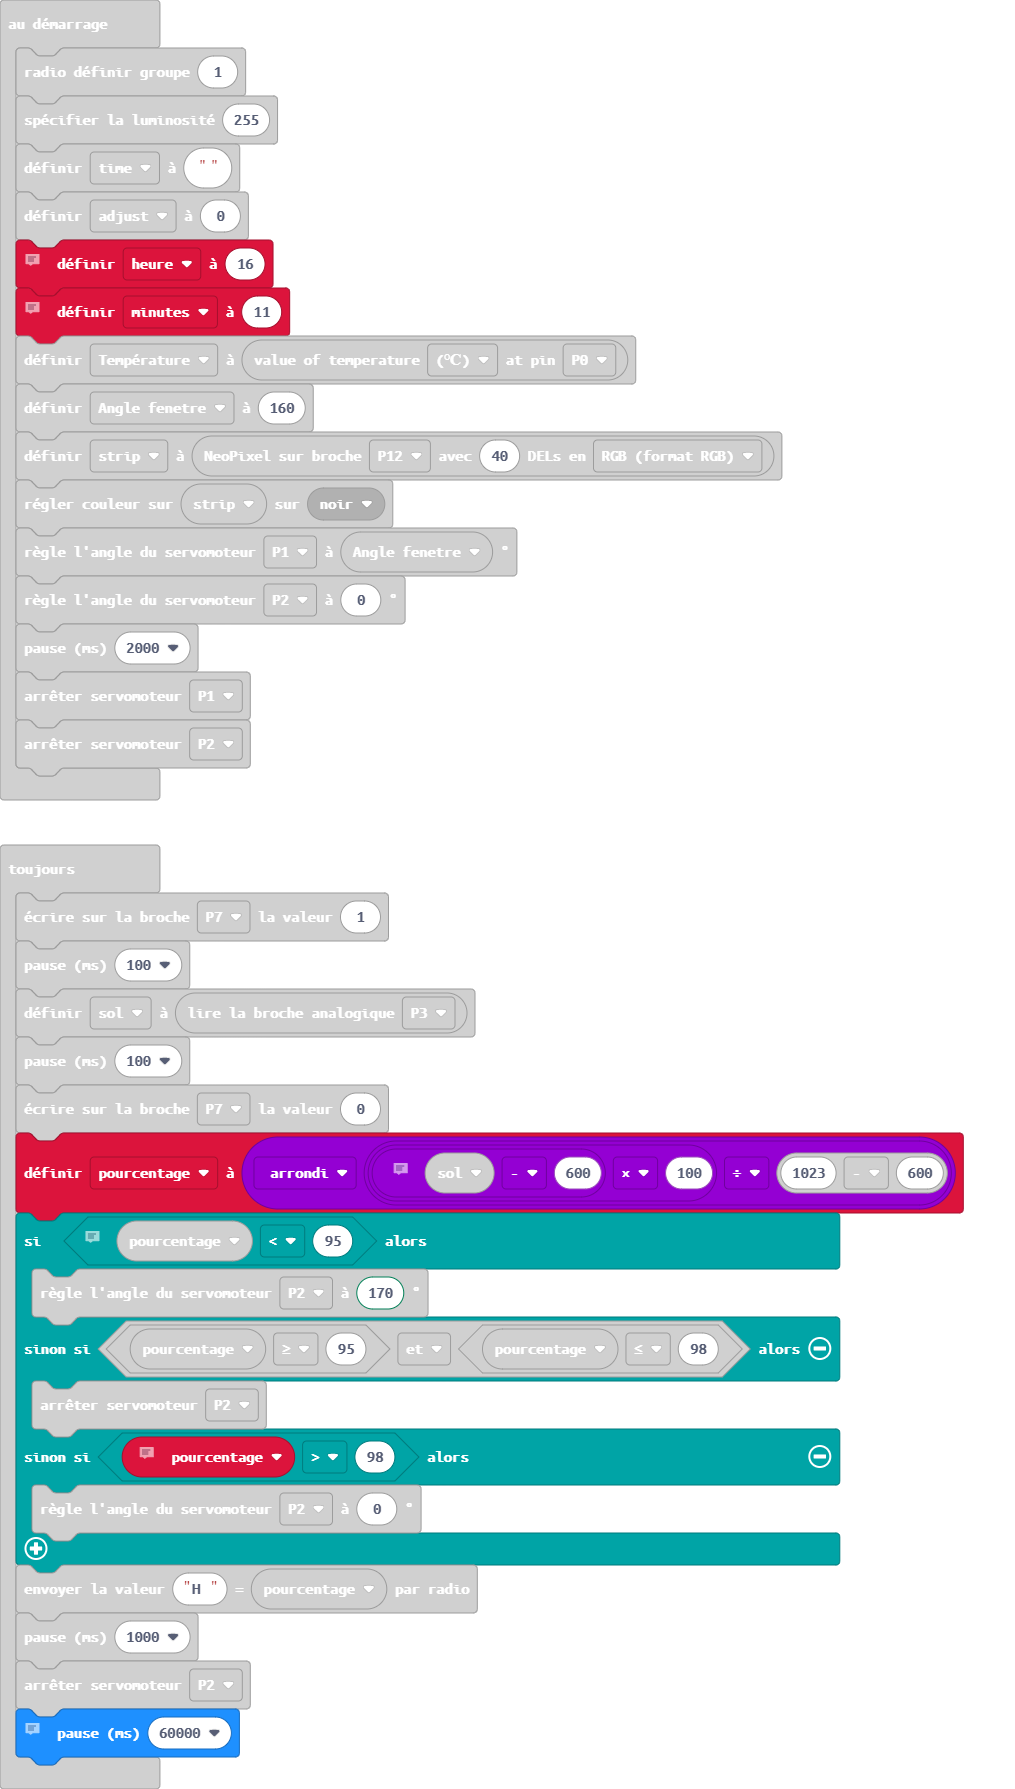
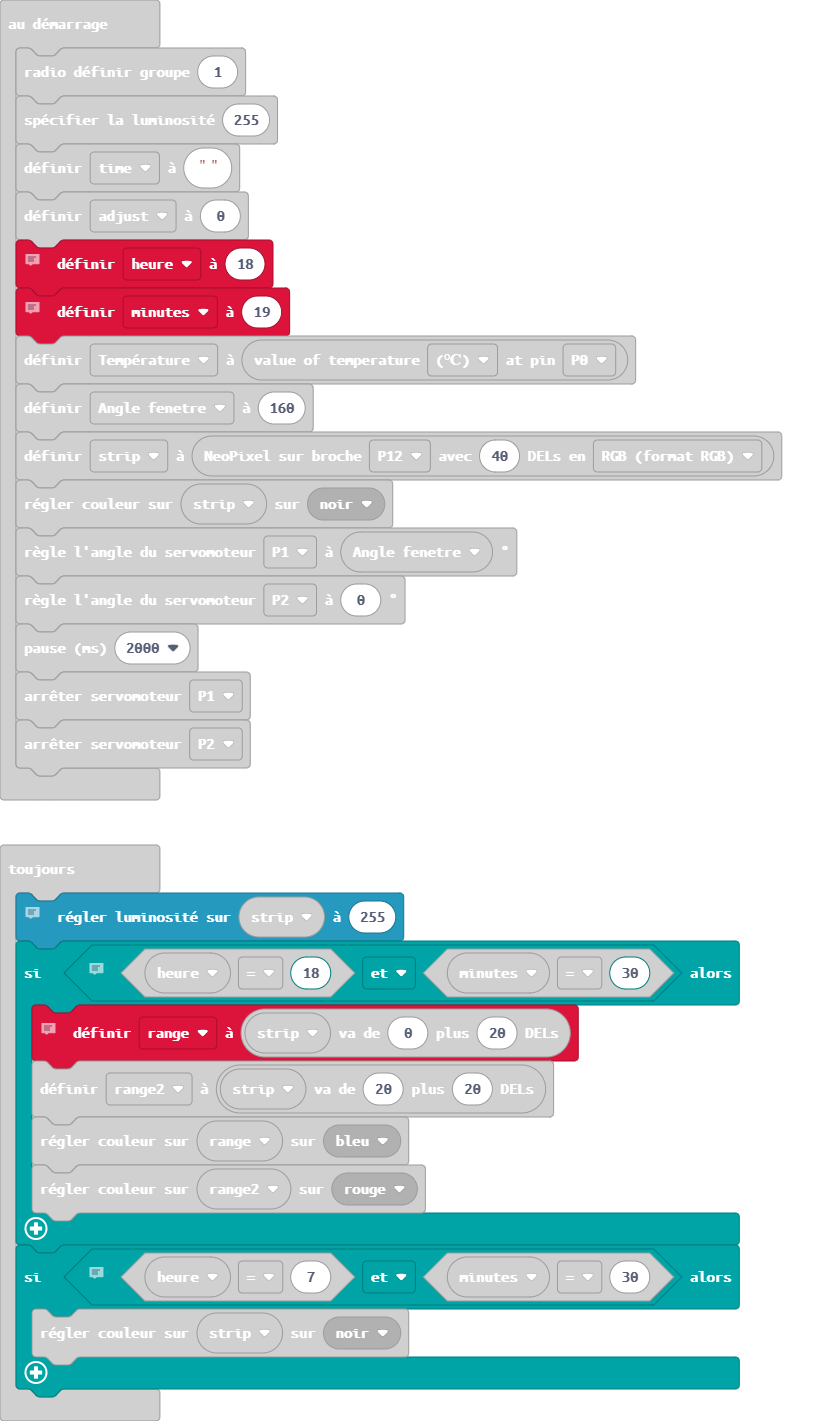
Mise à jour main.blocks, main.ts

diff --git a/main.ts b/main.ts
@@ -33,9 +33,9 @@ led.setBrightness(255)
 time = ""
 adjust = 0
 // Ajuster l'heure lorsque vous démarrerez le micro:bit
-heure = 16
+heure = 18
 // Ajuster les minutes lorsque vous démarrerez le micro:bit
-minutes = 11
+minutes = 19
 Température = smarthome.ReadTemperature(TMP36Type.TMP36_temperature_C, AnalogPin.P0)
 let Angle_fenetre = 160
 let strip = neopixel.create(DigitalPin.P12, 40, NeoPixelMode.RGB)
@@ -112,7 +112,7 @@ basic.forever(function () {
     // Permet d'ajuster l'intensité lumineuse des DEL
     strip.setBrightness(255)
     // Ajuster l'heure à laquelle vous désirez ouvrir les lumières.
-    if (heure == 17 && minutes == 0) {
+    if (heure == 18 && minutes == 30) {
         // Permet de sélectionner des couleurs d'éclairage.  Ici les DEL 0 à 19 sont bleues et les DEL 20 à 40 sont rouges.  Si on veut ajouter d'autres couleurs, il faut créer un nouvelle variable (ex : range3).SI on veut une seule couleur, on retire les blocs en lien avec "range2".
         range = strip.range(0, 20)
         range2 = strip.range(20, 20)
